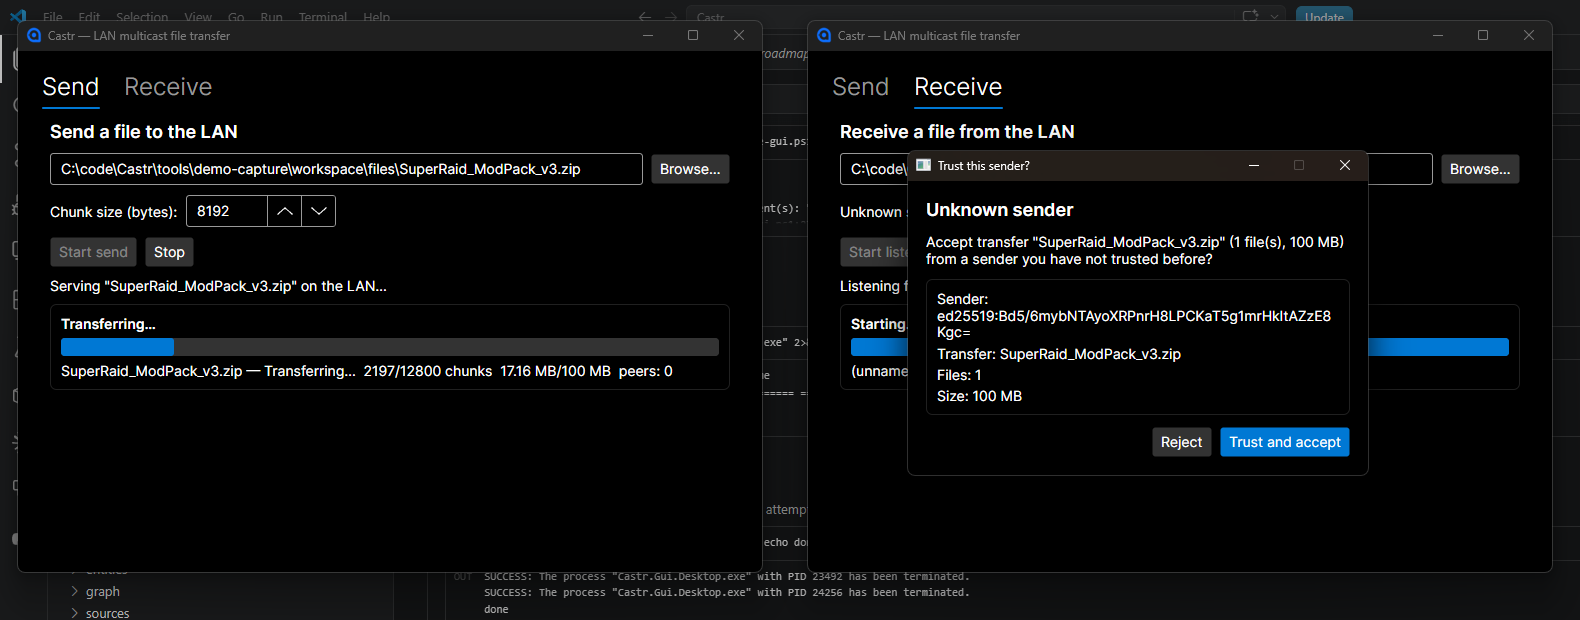
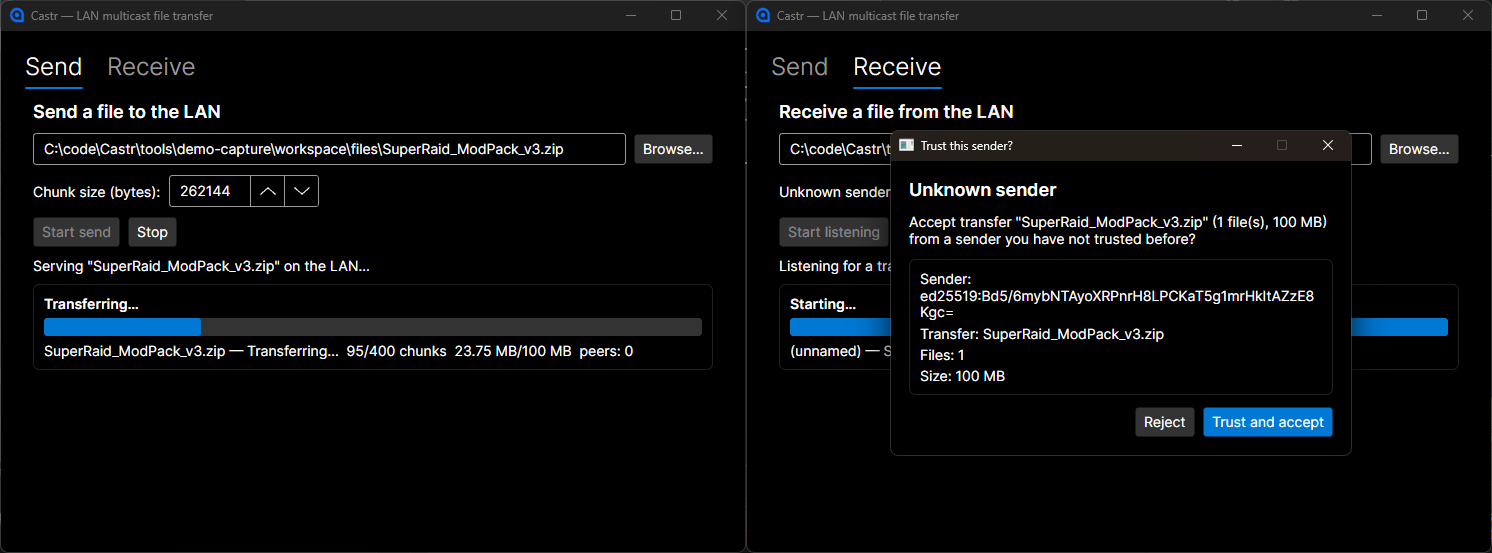
Re-record all showcase media on post-M8 main, at the shipped default
The published GIFs were captured on the pre-M7 build and no longer showed
shipped behaviour. All three GIFs and both screenshots regenerated against
merged main.

The capture scripts no longer pass --chunk-size 60000. That was a workaround
from when the default was 8 KB; M8's 256 KB default is both better than the
override and what a user actually gets, so the demos now show the real
out-of-box configuration. The GUI's send view showing 262144 is also the
first end-to-end confirmation that M8's MainWindow.axaml Maximum fix works -
the old cap of 60000 would have silently clamped it back down.

New timings: CLI 60 MB in ~4s, TUI 80 MB to 3 receivers in ~10s, GUI 100 MB
in ~10s. SHOWCASE.md states plainly what is NOT claimed: M7 was a
consistency win, not a speed one (100 MB went from 6.6/11.6/11.5s across
three runs to 7.31/7.10/7.06s - the best case barely moved, the typical case
improved 60%), and an earlier draft's large-speedup claim was withdrawn under
review as a degraded-host artifact. It also states the remaining ceiling:
per-datagram syscall cost caps throughput near ~37 MB/s until the datagram
budget is raised.

Capture tooling fixes, all found the hard way: ddagrab records the whole
screen, so anything the demo windows do not cover ends up in the GIF -
including, in a first pass, the editor showing this session. Windows are now
tiled edge-to-edge and ConvertTo-Gif.ps1 gained -Crop. Tiling on
GetWindowRect is not enough because ~7px per side is invisible DWM
[…]

diff --git a/docs/SHOWCASE.md b/docs/SHOWCASE.md
@@ -8,7 +8,7 @@ You just finished downloading a 100 MB mod pack and five other people at the tab
 
 Open Castr, drop the file in, hit **Start send**. Everyone else's Castr window lights up with an unknown-sender prompt showing exactly who's sending, what, and how big — they read your name off it, click **Trust and accept**, and the transfer just starts. One broadcast, everyone downloading in parallel, off the LAN entirely.
 
-The 100 MB mod pack below finishes in about 28 seconds over real loopback multicast at the GUI's default 8 KB chunk size — see "How these were made" for why that number is meaningfully better than it used to be.
+The 100 MB mod pack below finishes in about **10 seconds** over real loopback multicast — 400 chunks at the 256 KB default, roughly 10 MB/s with both windows and their live UI rendering sharing one machine.
 
 <p align="center"><img src="media/lan-party-desktop-gui.gif" alt="Castr desktop GUI: sender and receiver windows side by side, live transfer progress" width="820"></p>
 
@@ -33,7 +33,7 @@ castr receive --dest-dir /etc/fleet-config --trust-store ops-trusted-senders.jso
 
 One sender, any number of listeners on the segment, all pulling from the same multicast stream in parallel — pushing to 3 machines costs the same wall-clock time as pushing to 30. Trust is enforced by a pre-seeded `trusted-senders.json` baked into the fleet image, so a rogue host on the same subnet can announce all it wants and every receiver ignores it by default.
 
-The 60 MB bundle below completes in about 6 seconds — real, loopback, chunk-hashed, encrypted, no shortcuts taken for the recording.
+The 60 MB bundle below completes in about **4 seconds** — 240 chunks, roughly 15 MB/s. Real, loopback, chunk-hashed, encrypted, no shortcuts taken for the recording.
 
 <p align="center"><img src="media/sysadmin-fleet-push-cli.gif" alt="Castr CLI: sender and receiver terminals side by side, plain-text progress lines in lockstep" width="820"></p>
 
@@ -47,15 +47,23 @@ This is the "one send, hundreds of receive" story made visible — one sender, t
 
 Every panel is a real, independent `castr receive --tui` process — nothing here is simulated or mirrored. Watch the `Peers` count, the throughput, and the chunk map percentages: they're each converging on 100% at their own pace, exactly as they would across an actual rack of machines.
 
-All three panels below hit 100% in about 12 seconds — an 80 MB dataset fanned out to 3 receivers at once, each dashboard reporting its own live ~9 MB/s.
+All three panels below hit 100% in about **10 seconds** — an 80 MB dataset fanned out to 3 receivers at once, 320 chunks each, every dashboard reporting its own live ~9.8 MB/s. Note the sender lands on "Serving (repair)" while the receivers finish: it stays up to answer repair requests rather than exiting the moment its own send loop drains.
 
 ## How these were made
 
-Every asset on this page is a real capture of `main`'s actual `Castr.Cli`/`Castr.Tui`/`Castr.Gui.Desktop` binaries, sending real (sparse-allocated, correctly-sized) demo files over real loopback IP multicast — chunked, BLAKE3-hashed, Merkle-proofed, ChaCha20-Poly1305-encrypted, and verified on arrival exactly as a real cross-machine transfer would be. Screen capture used `ffmpeg`'s `ddagrab` (DXGI Desktop Duplication) rather than the older `gdigrab`, since Windows Terminal's GPU-composited rendering desaturates badly under legacy GDI BitBlt capture. The capture scripts themselves are saved in [`tools/demo-capture/`](../tools/demo-capture/) so this media can be regenerated later.
+Every asset on this page is a real capture of `main`'s actual `Castr.Cli`/`Castr.Tui`/`Castr.Gui.Desktop` binaries, sending real (sparse-allocated, correctly-sized) demo files over real loopback IP multicast — chunked, BLAKE3-hashed, Merkle-proofed, ChaCha20-Poly1305-encrypted, and verified on arrival exactly as a real cross-machine transfer would be. Screen capture used `ffmpeg`'s `ddagrab` (DXGI Desktop Duplication) rather than the older `gdigrab`, since Windows Terminal's GPU-composited rendering desaturates badly under legacy GDI BitBlt capture. `ddagrab` records the whole screen, so the capture scripts tile the demo windows edge-to-edge and `ConvertTo-Gif.ps1` crops to their bounds — otherwise whatever is on the desktop behind them ends up in the GIF. Tiling on the numbers Windows reports is not enough: `GetWindowRect` includes ~7 px of invisible DWM drop-shadow per side, so windows placed "flush" by those numbers leave a visibly bleeding seam. The capture scripts themselves are saved in [`tools/demo-capture/`](../tools/demo-capture/) so this media can be regenerated later.
 
-**These GIFs were re-recorded after a real throughput fix.** The first recording of these demos plateaued around 1.6-2.4 MB/s regardless of file or transport — turned out to be a genuine bug, not a demo artifact: `ReceiverSession`'s per-packet handling (verify, decrypt, write, and an outbound broadcast) was fully serialized behind the same lock the UDP socket's own drain loop depended on, so the OS receive buffer only emptied as fast as that whole chain ran. Fixed by decoupling the socket read into its own task feeding a bounded channel, plus explicit socket buffer sizing — see [`wiki/synthesis/m6-throughput-pipelining.md`](../wiki/synthesis/m6-throughput-pipelining.md) for the full three-round investigation, including two independent review passes before the fix shipped. The numbers above (6s/12s/28s) are the same real, unmodified binaries, on the same machine, just no longer bottlenecked.
+**These GIFs have been re-recorded twice, after three rounds of throughput work.** The original recordings plateaued around 1.6-2.4 MB/s regardless of file or transport — a genuine bug, not a demo artifact. Three things changed since:
 
-**How that fix was arrived at is documented too** — including the approach we shipped first and had to reverse, why we rejected porting UFTP's congestion control after reading its source, and the measurement we took two rounds before we understood what it was telling us. See **[METHODOLOGY.md](METHODOLOGY.md)** for the reasoning and [`benchmarks/throughput-runs.md`](benchmarks/throughput-runs.md) for every raw run behind it. Throughput work here is still open: the numbers above are averages, and average throughput turns out to hide a bursty delivery pattern we are actively investigating.
+- **M6** found the plateau: `ReceiverSession`'s per-packet chain (verify, decrypt, disk write, outbound broadcast) was fully serialized behind the same lock the UDP socket's drain loop depended on, so the OS receive buffer only emptied as fast as that whole chain ran. Fixed by decoupling the socket read into its own task feeding a bounded channel, plus explicit socket buffer sizing.
+- **M7** fixed what came next. The demos got faster but started *bursting and stalling* — the receiver was requesting the entire file 250 ms in, while the carousel was ~1% done, and the sender was dutifully re-sending all of it. The file was going out roughly twice. Duplicate datagrams fell from 120,060 to 324 and wire amplification from 2.39× to 1.13×.
+- **M8** raised the default chunk size from 8 KB to the 256 KB that `Castr.Core` and the wire-protocol spec had specified all along, worth a measured 1.33×.
+
+**What we deliberately do not claim:** that M7 made things faster. It didn't, much — its win was *consistency*. Before it, the same 100 MB transfer took 6.6 s, 11.6 s, and 11.5 s on three consecutive runs; after, 7.31 s, 7.10 s, 7.06 s. The best case barely moved. The typical case improved 60%, and the stalls disappeared. An earlier draft of this page claimed a large speedup from M7 and that claim was withdrawn under review — it turned out to be a degraded-host artifact, not a gain.
+
+**How all of this was arrived at is documented too**, including the fix we shipped first and had to reverse, why we read UFTP's source and then declined to copy its congestion control, two separate benchmarking confounders that invalidated whole run sets, and the measurement that contained the answer two rounds before anyone understood it. See **[METHODOLOGY.md](METHODOLOGY.md)** for the reasoning and [`benchmarks/throughput-runs.md`](benchmarks/throughput-runs.md) for every raw run behind it.
+
+**Still open:** at 1200-byte datagrams, per-datagram syscall cost caps throughput near ~37 MB/s no matter what else improves. Raising the datagram budget alongside the larger chunk measured ~98 MB/s in instrumented runs — that's the next milestone, and it's tracked in [the roadmap](../wiki/synthesis/roadmap.md) rather than quietly assumed.
 
 ## What's not shown here yet
 

diff --git a/docs/benchmarks/throughput-runs.md b/docs/benchmarks/throughput-runs.md
@@ -748,3 +748,45 @@ Re-verified after the change, since it touches the reassembly path the loss test
 **441 passed / 3 skipped / 0 warnings** (up 2 from the new coverage), the `ChaosTransport` loss/reorder/
 duplication tests still passing **unmodified with no timeout changes**, and the Docker netem E2E tier
 re-run green on a **rebuilt** image.
+
+---
+
+## 2026-07-25 — Showcase demo re-capture (post-M8)
+
+Real screen captures of the shipped `Castr.Cli` / `Castr.Tui` / `Castr.Gui.Desktop` binaries on
+merged `main`, at the **shipped 256 KB default** — the capture scripts' previous
+`--chunk-size 60000` override was removed, since the new default is both better than that
+workaround and what a user actually gets. Timings read off the recordings.
+
+| Surface | File | Chunks | Receivers | Wall clock | Goodput |
+|---|---|---|---|---|---|
+| CLI | 60 MB | 240 | 1 | **~4 s** | ~15 MB/s |
+| TUI | 80 MB | 320 | 3 | **~10 s** | ~9.8 MB/s per receiver (dashboard-reported) |
+| GUI | 100 MB | 400 | 1 | **~10 s** | ~10 MB/s |
+
+Previous published figures were 6 s / 12 s / 28 s. **Do not read the deltas as pure M7+M8 gains** —
+the older captures were taken under unknown cache and machine state, which the page-cache confounder
+(~1.94×) and the multicast-group confounder (~1.8×) both make unsafe to compare against. The
+controlled A/B numbers earlier in this file are the defensible ones; these are what the artifacts
+show.
+
+The GUI is the surface that changed most, because it was the one still running at 8 KB chunks — its
+send view now shows `262144` in the chunk-size field, which is also the first end-to-end confirmation
+that M8's `MainWindow.axaml` `Maximum` fix works (the old cap of 60000 would have silently clamped
+the new default back down and made the change invisible).
+
+### Capture-tooling notes worth not rediscovering
+
+- `ddagrab` records the **whole screen**. Anything the demo windows do not cover lands in the GIF —
+  in a first pass that included an editor window with the session that was writing these very docs.
+  The capture scripts now tile the windows edge-to-edge and `ConvertTo-Gif.ps1` gained a `-Crop`
+  parameter to trim to their bounds.
+- **Tiling on `GetWindowRect` is not enough.** It reports 895×483 for a 94×22 console, but ~7 px per
+  side is invisible DWM drop-shadow rather than painted pixels, so windows placed "flush" by those
+  numbers leave a ~14 px seam of visible desktop between them. All three capture scripts now overlap
+  by the shadow width. This cost three re-records to work out; the arithmetic is in each script.
+- Verify a crop region by extracting one frame (`ffmpeg -ss <t> -i in.mp4 -frames:v 1 -vf crop=...`)
+  and **looking at it** before converting. Guessing the geometry wastes a full re-record.
+- Do not pipe `ConvertTo-Gif.ps1` through `2>&1` in PowerShell: ffmpeg writes its banner to stderr,
+  and combined with the script's `$ErrorActionPreference = 'Stop'` that aborts the run before ffmpeg
+  finishes, leaving the old GIF silently in place.

diff --git a/README.md b/README.md
@@ -28,12 +28,19 @@ every raw measurement behind it.
 
 ## Status
 
-M0 (scaffolding) through M6 are complete: M5 shipped the showcase docs
-below, and M6 root-caused and fixed a real send/receive throughput
-bottleneck (see "See it in action" below and
-`wiki/synthesis/m6-throughput-pipelining.md`) — formal release automation
-(tag-triggered releases, checksums/signatures) remains open, tracked in
-`wiki/synthesis/roadmap.md`. Chunk payloads are ChaCha20-Poly1305-encrypted end-to-end and
+M0 (scaffolding) through M8 are complete. M5 shipped the showcase docs
+below; M6 root-caused and fixed a receiver-side throughput bottleneck
+(`wiki/synthesis/m6-throughput-pipelining.md`); M7 removed a self-inflicted
+repair storm that was sending the file roughly twice, cutting wire
+amplification from 2.39× to 1.13× and eliminating a burst/stall delivery
+pattern (`wiki/synthesis/m7-repair-amplification.md`); M8 raised the default
+chunk size to the 256 KB that `Castr.Core` and the wire protocol had
+specified all along. Throughput work is not finished — per-datagram syscall
+cost currently caps transfers near ~37 MB/s, and raising the datagram budget
+is the tracked next step. Formal release automation (tag-triggered releases,
+checksums/signatures) also remains open. Both are in
+`wiki/synthesis/roadmap.md`, and every measurement behind these claims is in
+`docs/benchmarks/throughput-runs.md`. Chunk payloads are ChaCha20-Poly1305-encrypted end-to-end and
 travel over MTU-safe wire packets (chunks split/reassembled below the
 crypto layer) — see `wiki/synthesis/m1.5-encryption-summary.md` and
 `wiki/synthesis/m3-test-ci-hardening-summary.md`.
